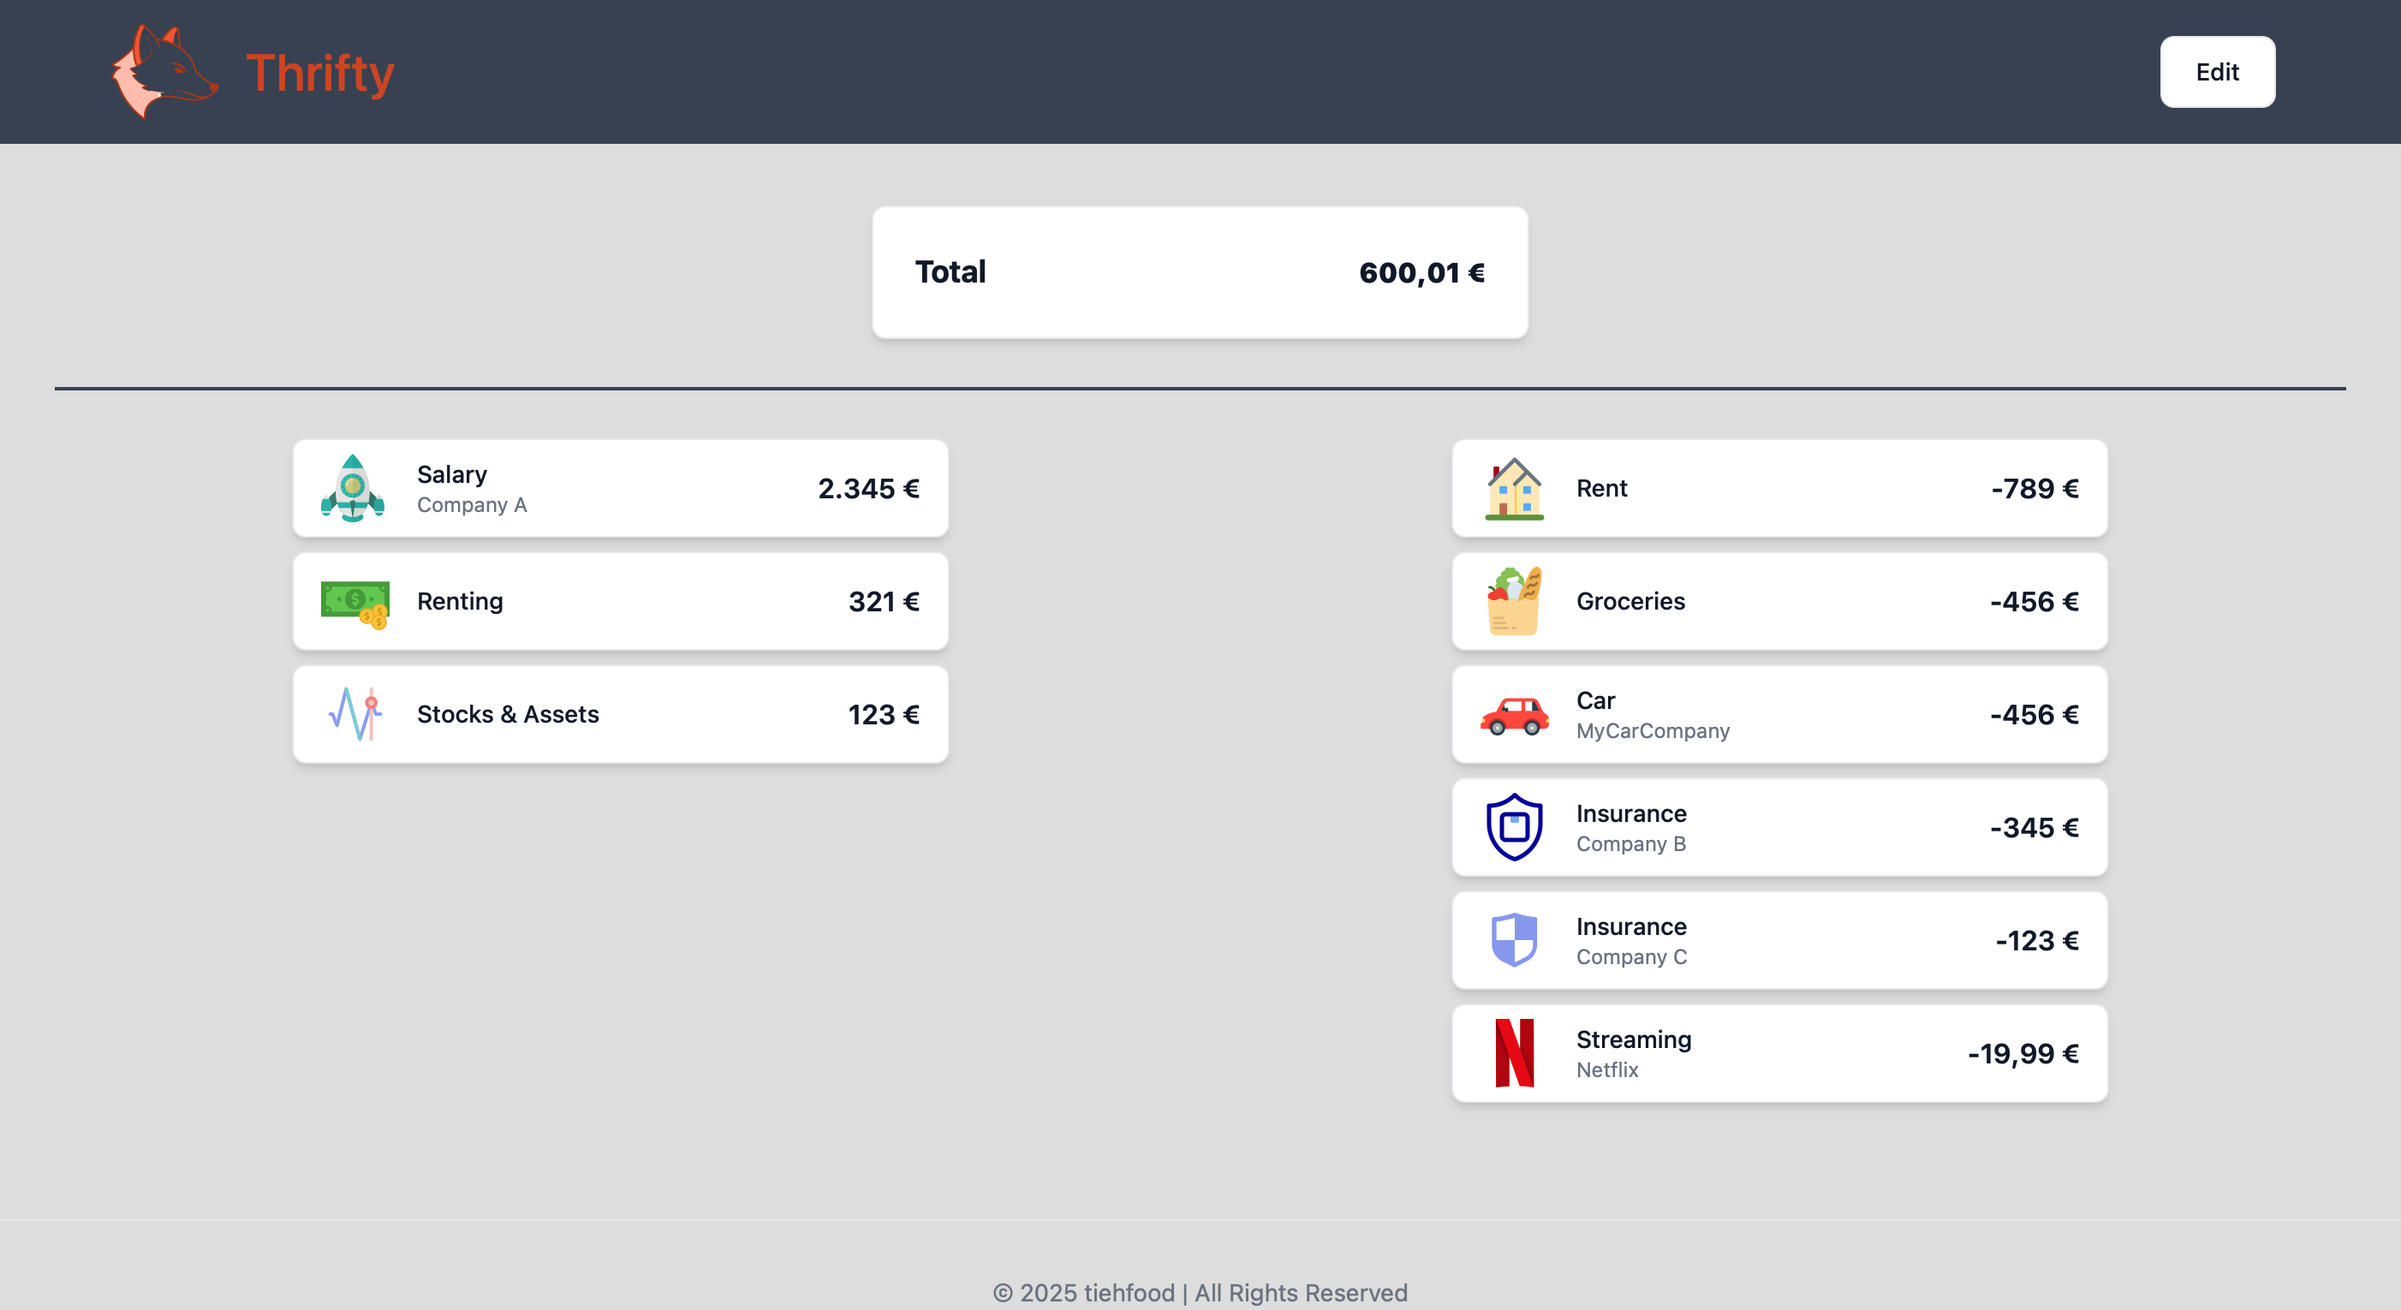
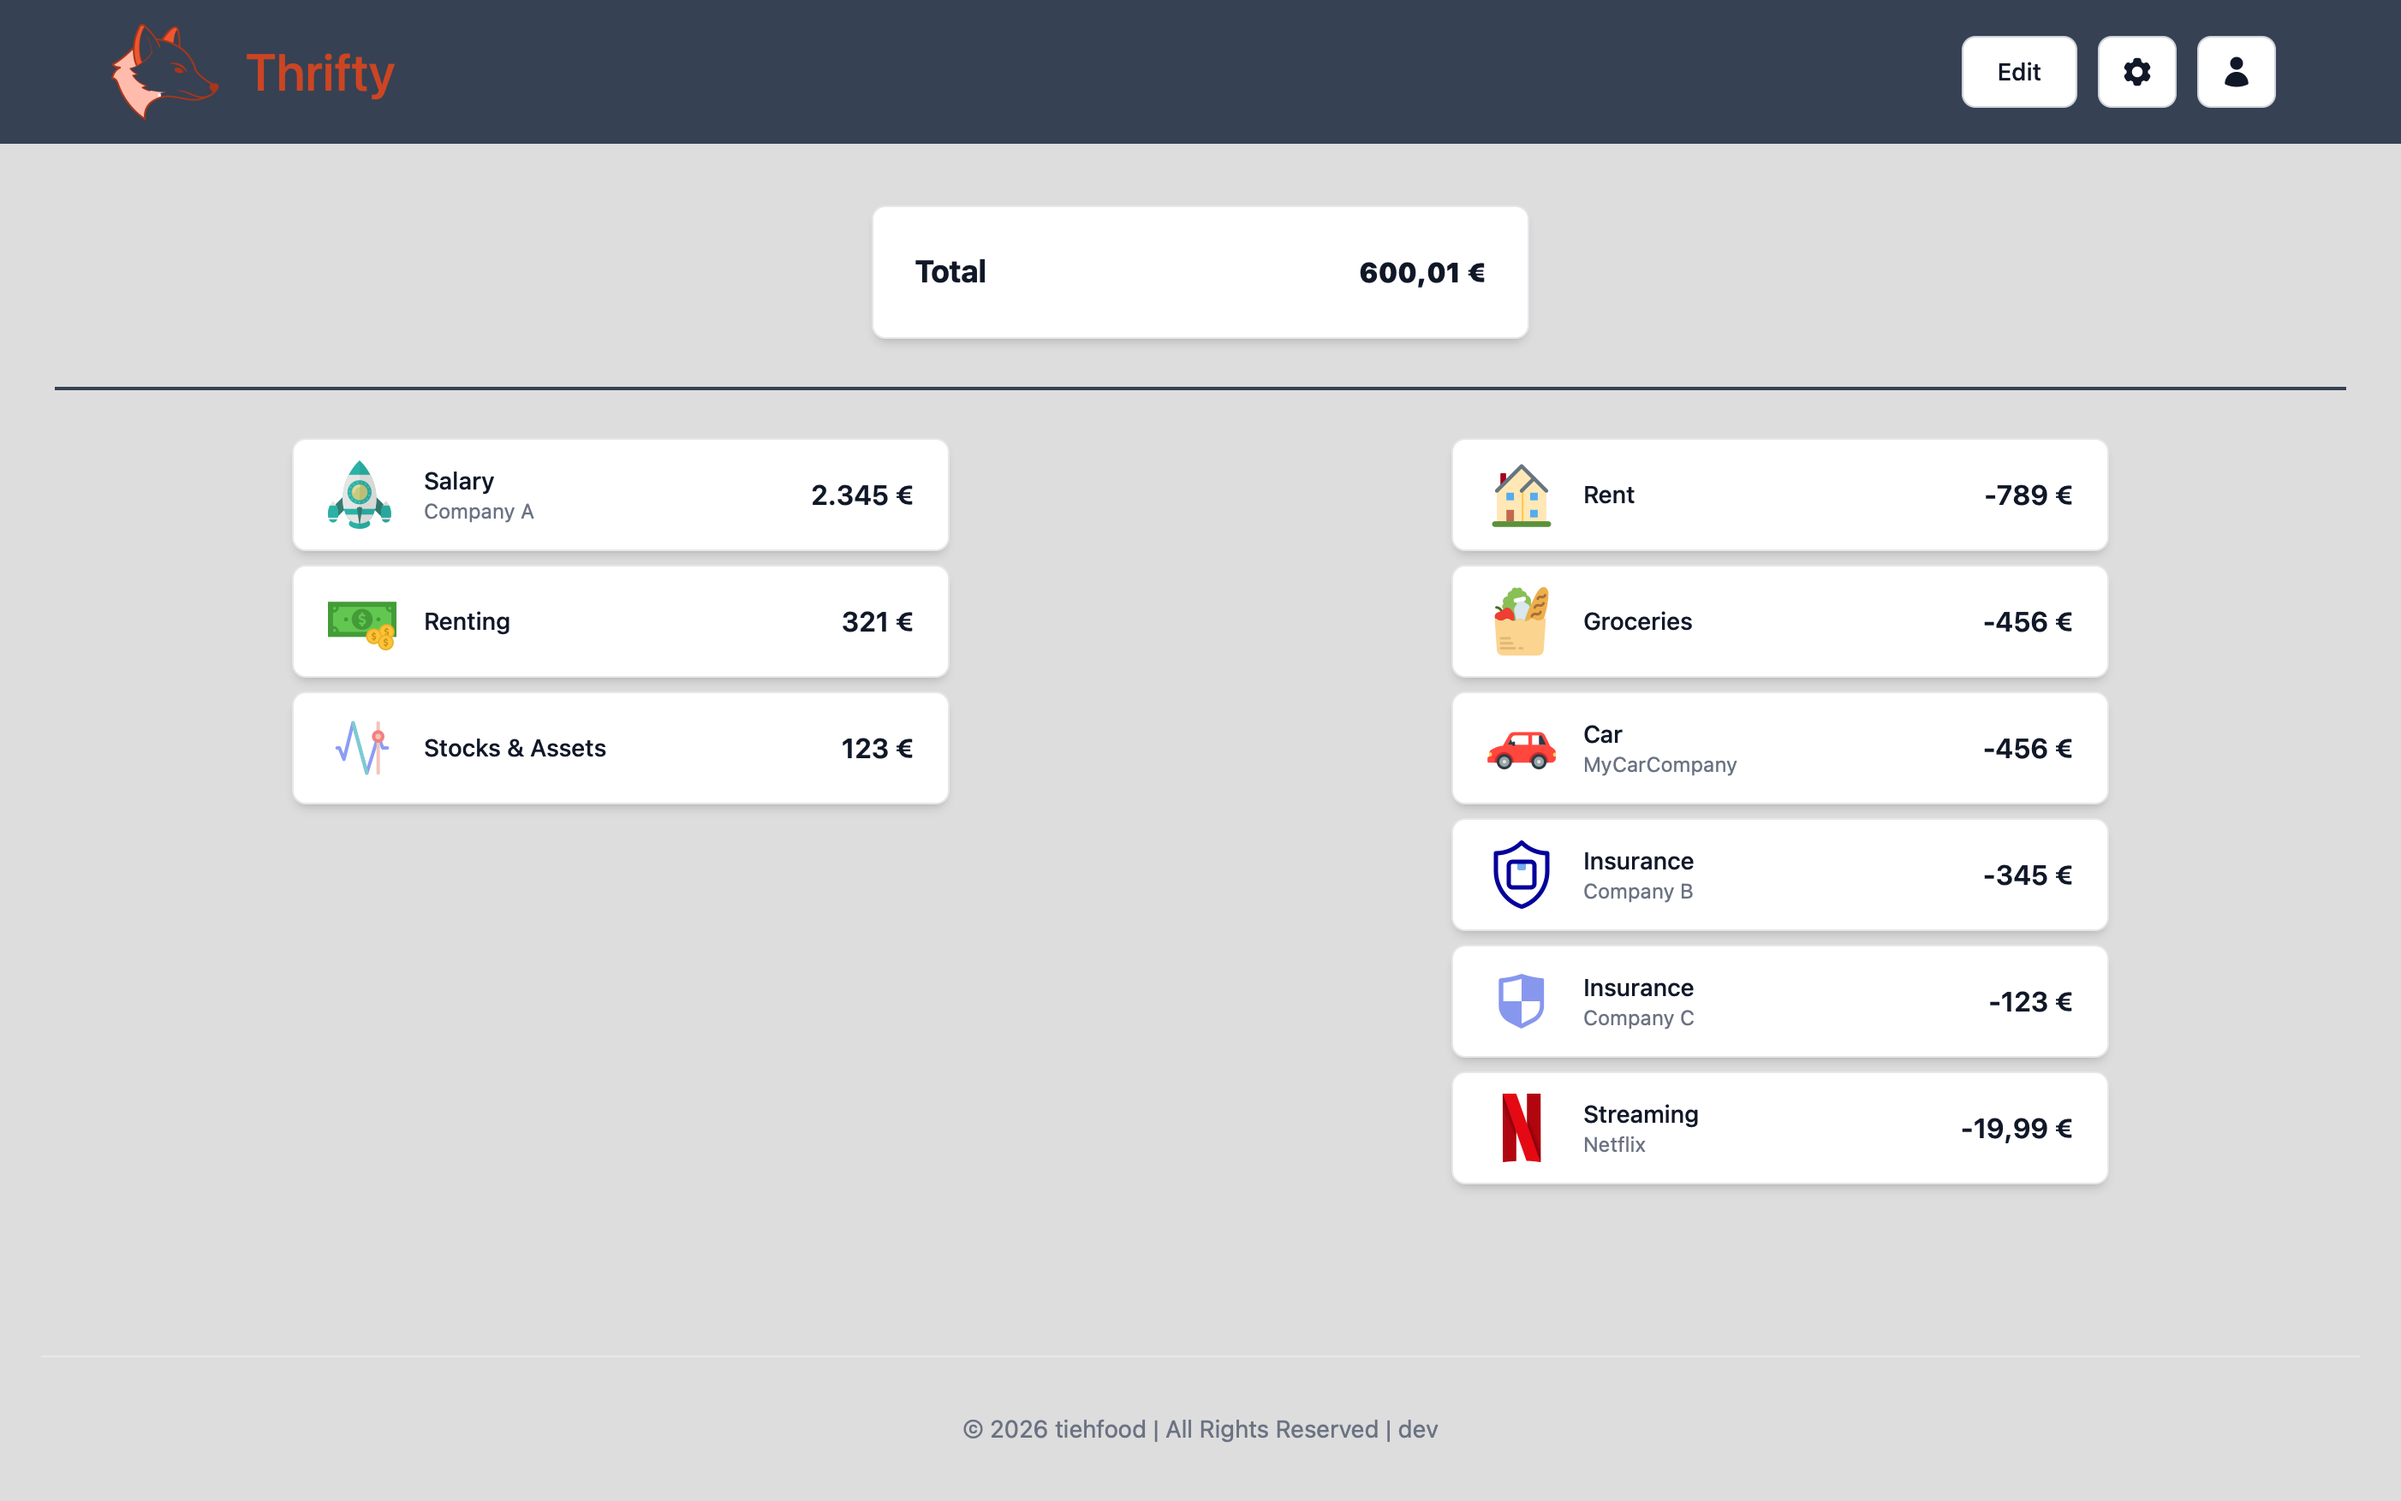
doc: Update README.md

Changed region(s): [[0.0, 0.0, 1.0, 0.8601], [0.4034, 0.9523, 0.5895, 1.0]]

diff --git a/README.md b/README.md
@@ -30,6 +30,10 @@ Features:
 - Two rows for income and expenses (collapse into single one on smaller devices)
 - API documentation at `/swagger/index.html`
 - Currency configurable via environment variable
+- Different number formats
+- Support for multiple users
+- Upload all icons once in the settings and reuse them later
+- Auto-calculate monthly value from other payment periods (e.g. weekly, semi-annually)
 
 Frameworks used:
 
@@ -37,14 +41,16 @@ Frameworks used:
 - __API__: golang
 
 ## Screenshots
-| ![Screenshot1](doc/screenshot_1.png) | ![Screenshot2](doc/screenshot_2.png) |
-|:------------------------------------:|:------------------------------------:|
-| ![Screenshot3](doc/screenshot_3.png) | ![Screenshot4](doc/screenshot_4.png) |
+|  ![Screenshot1](doc/screenshot_1.png)  | ![Screenshot2](doc/screenshot_2.png) |
+|:--------------------------------------:|:------------------------------------:|
+|  ![Screenshot3](doc/screenshot_3.png)  | ![Screenshot4](doc/screenshot_4.png) |
+|  ![Screenshot5](doc/screenshot_5.png)  | ![Screenshot6](doc/screenshot_6.png) |
+|  ![Screenshot7](doc/screenshot_7.png)  | ![Screenshot8](doc/screenshot_8.png) |
 
 ## Settings
-![Screenshot5](doc/screenshot_5.png)
 * __Multi user support__: Allow multiple users (no login, just simple users).
 * __Number format__: Choos different number formats on your preference.
+* __Icons__: Upload and delete icons for entries
 
 ## Running the app
 
@@ -67,6 +73,8 @@ docker compose -f docker-compose-build.yaml up -d
 ```
 
 ### Tips
+#### I have a bi-monthly or semi-annually payment, what should I do?
+>Check the `not monthly` setting on the new entry dialog. Then you can select your payment period and Thrifty will automatically calculate the corresponding monthly value for you.
 #### Want to use `$` as the currency symbol?
 >Set `CURRENCY_ISO=USD` for the UI in the docker compose file and restart the UI container.
 #### How about other currencies?
